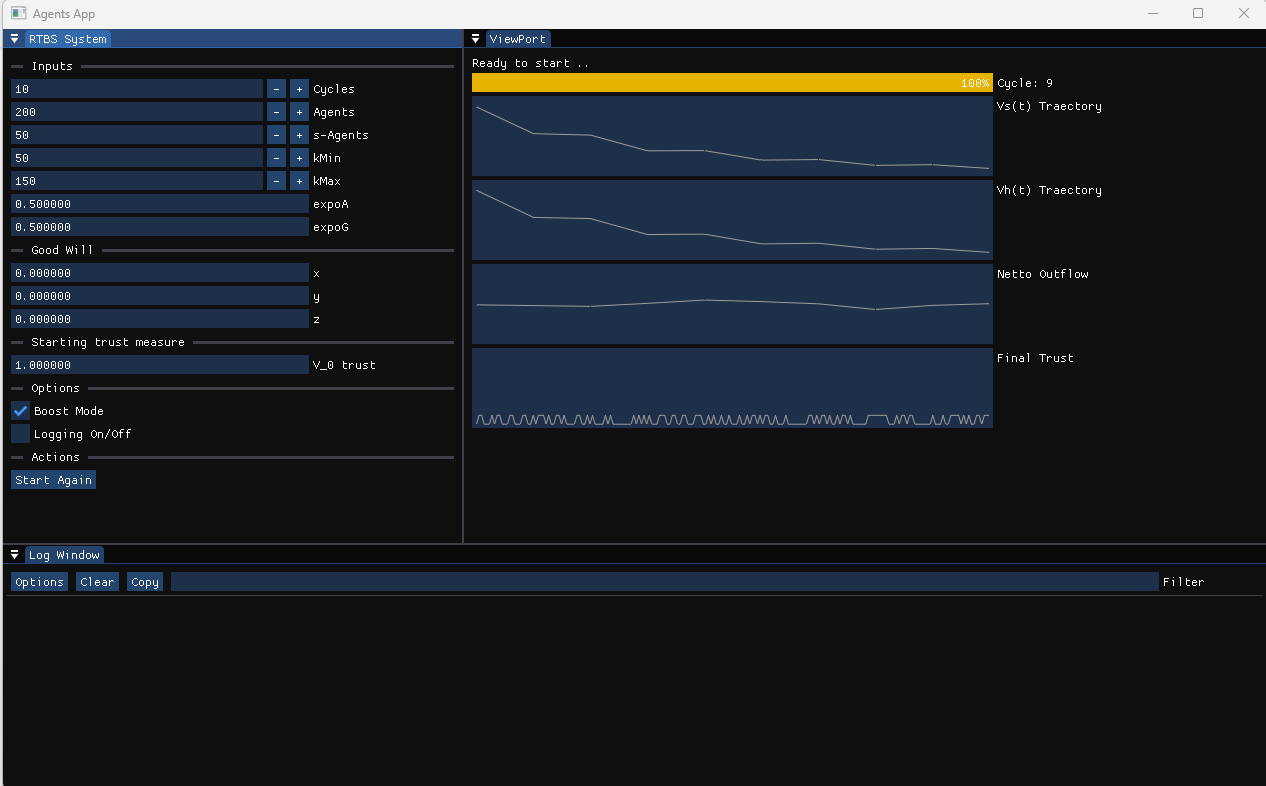
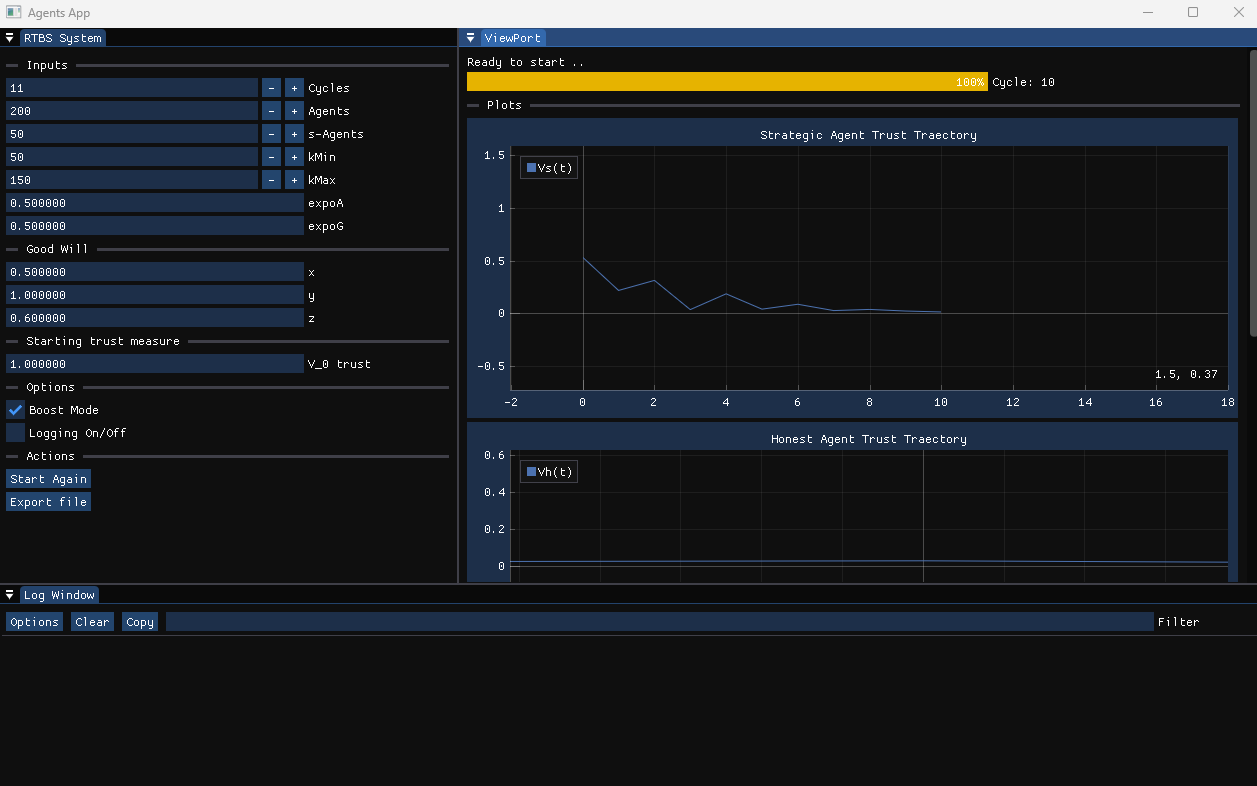
change readme

Changed region(s): [[0.0, 0.0, 1.0, 0.8244], [0.2482, 0.458, 0.3103, 0.4885]]

diff --git a/README.md b/README.md
@@ -13,3 +13,5 @@ It contains my own implementation of K-Means clustering.
 [GoogleTests](https://github.com/google/googletest) - you know for tests in c++
 
 [OpenXLSX](https://github.com/troldal/OpenXLSX) - for XLSX export
+
+[ImPlot](https://github.com/epezent/implot) - for plots
